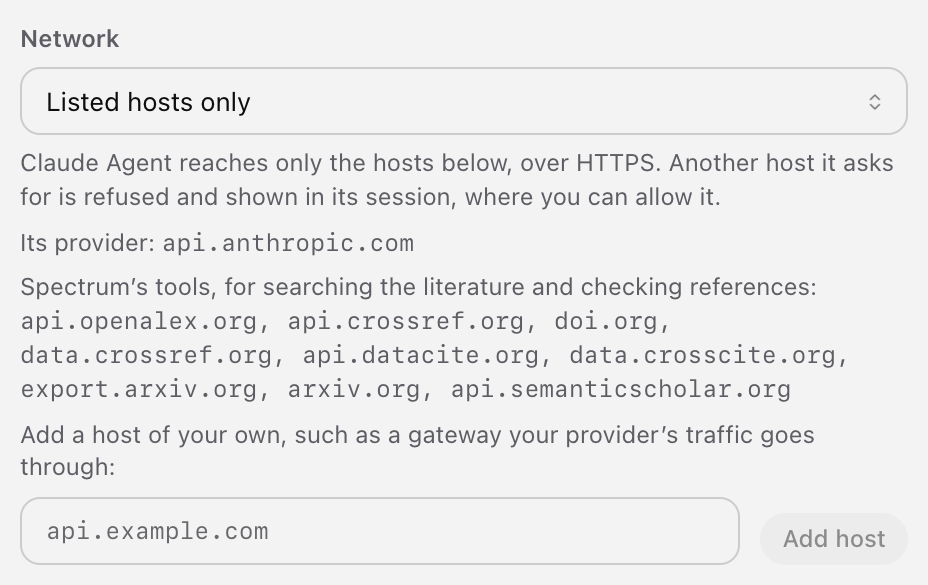
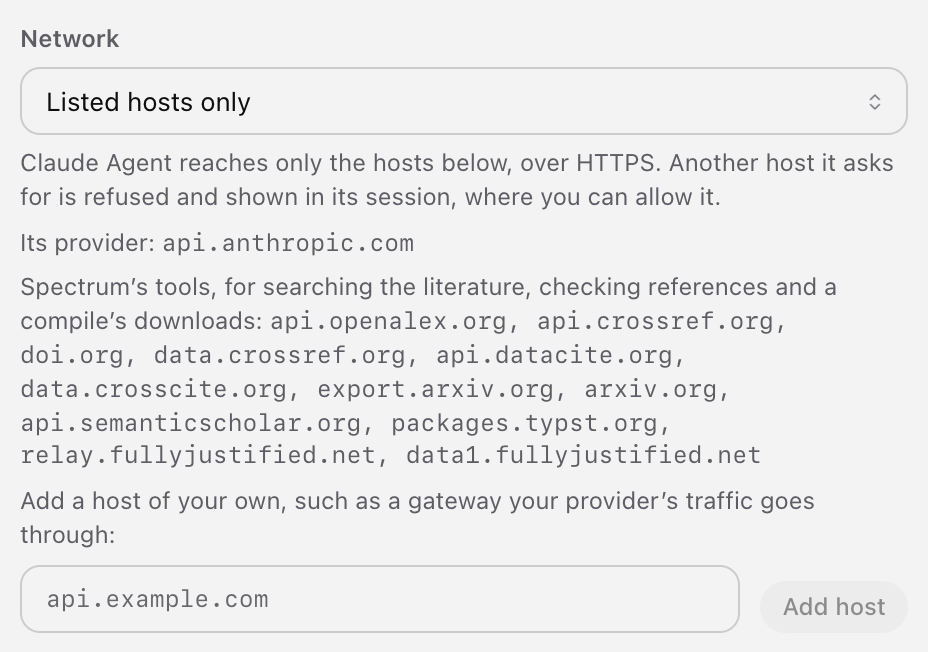
Agents: every list holds what a compile downloads, Typst packages and Tectonic's TeX files
An agent's private home starts with neither, and the built-in Typst and Tectonic both ask the gate for them.

Changed region(s): [[0.0, 0.0308, 0.9688, 0.9846], [0.8438, 0.8923, 0.9688, 0.9538]]

diff --git a/apps/backend/test/agent-network.test.js b/apps/backend/test/agent-network.test.js
@@ -14,7 +14,7 @@ import { fileURLToPath } from 'node:url';
 
 const tmp = realpathSync.native(mkdtempSync(path.join(os.tmpdir(), 'spectrum-agent-network-')));
 Object.assign(process.env, { SPECTRUM_DATA_DIR: path.join(tmp, 'data'), SPECTRUM_PROJECTS_DIR: path.join(tmp, 'projects') });
-const { cleanHost, cleanHosts, helloName, hostAllowed, nameStandIn, openGate, thisComputer, SCHOLARLY_HOSTS } = await import('../src/services/agentNetwork.js');
+const { cleanHost, cleanHosts, helloName, hostAllowed, nameStandIn, openGate, thisComputer, SCHOLARLY_HOSTS, TOOL_HOSTS } = await import('../src/services/agentNetwork.js');
 const { sandboxProfile, spawnAgentProcess } = await import('../src/services/agentSandbox.js');
 const { PROFILES, agentConfigs, agentEntry, allowAgentHost, agentHome, launchOptions, networkOf, profileFor, recordTest, saveAgentConfig } = await import('../src/services/agentProfiles.js');
 const servers = await import('../src/services/mcpServers.js');
@@ -189,7 +189,8 @@ test('each agent has its provider’s hosts; only one whose documentation is sur
   }
   assert.deepEqual(PROFILES.filter((p) => p.network === 'hosts').map((p) => p.id), ['claude']);
   const claude = networkOf(profileFor('claude'));
-  assert.deepEqual({ mode: claude.mode, provider: claude.provider, tools: claude.tools, hosts: claude.hosts }, { mode: 'hosts', provider: ['api.anthropic.com'], tools: SCHOLARLY_HOSTS, hosts: [] });
+  assert.deepEqual({ mode: claude.mode, provider: claude.provider, tools: claude.tools, hosts: claude.hosts }, { mode: 'hosts', provider: ['api.anthropic.com'], tools: TOOL_HOSTS, hosts: [] });
+  assert.ok(SCHOLARLY_HOSTS.every((host) => TOOL_HOSTS.includes(host)));
   assert.equal(claude.enforced, process.platform === 'darwin');
   // the two the owner's tests left as they are: any host, with the list ready
   for (const id of ['deepseek', 'codex']) assert.equal(networkOf(profileFor(id)).mode, 'any', id);
@@ -217,7 +218,7 @@ test('an agent’s network setting: saved only where it differs, a list checked,
   options = await launch();
   if (process.platform === 'darwin') {
     assert.equal(options.network, 'hosts');
-    assert.deepEqual(await options.hosts(), [...profileFor('qoder').hosts, ...SCHOLARLY_HOSTS, 'models.example.com']);
+    assert.deepEqual(await options.hosts(), [...profileFor('qoder').hosts, ...TOOL_HOSTS, 'models.example.com']);
     await recordTest('qoder', { ok: true, code: 'ready', program: options.program }, { setup: options.setup });
     // a host allowed from a session: on the list at once, and the Test stands
     assert.equal(await allowAgentHost('qoder', 'Extra.Example.com:443'), 'extra.example.com');
@@ -314,6 +315,27 @@ test('a listed agent that asks the gate for nothing is told once where Any host 
   assert.equal(told.length, 1, JSON.stringify(told));
   assert.match(told[0], /^Qoder is held to its list of hosts and asked for none of them in this task\..*choose Any host for it in Settings › Agents\.$/);
   assert.deepEqual(await quiet({ mode: 'any' }), []);
+});
+
+test('the built-in Typst and Tectonic ask the gate for their downloads, by the hosts every list has', { skip, timeout: 120000 }, async (t) => {
+  const { builtInTypst, builtInTectonic } = await import('../src/services/engineService.js');
+  const root = path.join(tmp, 'engines');
+  await fs.mkdir(path.join(root, 'home', 'tmp'), { recursive: true }); await fs.mkdir(path.join(root, 'work'));
+  await fs.writeFile(path.join(root, 'work', 'a.typ'), '#import "@preview/spectrum-stand-in:0.0.1"\nText\n');
+  await fs.writeFile(path.join(root, 'work', 'a.tex'), '\\documentclass{article}\\begin{document}Text\\end{document}\n');
+  // every host refused, so nothing is downloaded: what each asked for is what a list must hold
+  const asks = async (command, args) => {
+    const refused = new Set();
+    const child = await spawnAgentProcess({ command, args, workspace: path.join(root, 'work'), home: path.join(root, 'home'), runtimePaths: [path.dirname(command)], hosts: () => [], onRefused: (host) => refused.add(host) });
+    child.stdout.resume(); child.stderr.resume();
+    await new Promise((resolve, reject) => { child.on('error', reject); child.on('exit', resolve); });
+    return [...refused];
+  };
+  const [typst, tectonic] = [builtInTypst(), builtInTectonic()];
+  if (!typst && !tectonic) return t.skip('The built-in Typst and Tectonic are not in this checkout.');
+  if (typst) assert.deepEqual(await asks(typst, ['compile', 'a.typ']), ['packages.typst.org']);
+  if (tectonic) assert.deepEqual(await asks(tectonic, ['a.tex']), ['relay.fullyjustified.net']);
+  for (const host of ['packages.typst.org', 'relay.fullyjustified.net']) assert.ok(TOOL_HOSTS.includes(host), host);
 });
 
 // a stdio MCP server by hand, with one tool that asks a host for a page

diff --git a/apps/backend/src/services/agentProfiles.js b/apps/backend/src/services/agentProfiles.js
@@ -8,7 +8,7 @@ import { DATA_DIR } from '../config/constants.js';
 import { writeJsonAtomic } from '../utils/fsUtils.js';
 import { resolveExecutable, isolationAvailable, SYSTEM_READS } from './agentSandbox.js';
 import { safeJoin } from '../utils/pathUtils.js';
-import { SCHOLARLY_HOSTS, cleanHost, cleanHosts } from './agentNetwork.js';
+import { TOOL_HOSTS, cleanHost, cleanHosts } from './agentNetwork.js';
 // each adapter's whole tree, every package pinned with its checksum (npm install --package-lock-only from the version)
 import codexLock from '../data/adapters/codex/package-lock.json' with { type: 'json' };
 import claudeLock from '../data/adapters/claude/package-lock.json' with { type: 'json' };
@@ -100,14 +100,14 @@ export function profileFor(id) {
 const same = (a, b) => JSON.stringify(a ?? null) === JSON.stringify(b ?? null);
 
 /**
- * Where an agent may connect: mode 'hosts' (its provider's hosts, the scholarly sites of Spectrum's tools and the ones
- * the user added) or 'any' (every public HTTPS host), the user's choice or else the profile's; enforced: whether this
+ * Where an agent may connect: mode 'hosts' (its provider's hosts, the sites Spectrum's tools search, check references
+ * against and download a compile's packages from, and the ones the user added) or 'any' (every public HTTPS host), the user's choice or else the profile's; enforced: whether this
  * platform can hold an agent to a list (macOS; the Windows worker opens every public address or none); sure: whether
  * the agent's documentation was sure enough for it to start held to its list.
  */
 export function networkOf(profile, saved = {}) {
   const mode = ['hosts', 'any'].includes(saved.network?.mode) ? saved.network.mode : profile.network || 'any';
-  return { mode, provider: profile.hosts || [], tools: SCHOLARLY_HOSTS, hosts: cleanHosts(saved.network?.hosts), enforced: process.platform === 'darwin', sure: profile.network === 'hosts' };
+  return { mode, provider: profile.hosts || [], tools: TOOL_HOSTS, hosts: cleanHosts(saved.network?.hosts), enforced: process.platform === 'darwin', sure: profile.network === 'hosts' };
 }
 /** Adds host to the ones the user allows the agent, and gives the host as saved. */
 export async function allowAgentHost(id, value) {

diff --git a/apps/frontend/src/app/AgentSettings.tsx b/apps/frontend/src/app/AgentSettings.tsx
@@ -554,7 +554,7 @@ function AgentCard({
                     Its provider: <span className="mono">{a.network.provider.join(', ')}</span>
                   </div>
                   <div className="field-hint">
-                    Spectrum’s tools, for searching the literature and checking references: <span className="mono">{a.network.tools.join(', ')}</span>
+                    Spectrum’s tools, for searching the literature, checking references and a compile’s downloads: <span className="mono">{a.network.tools.join(', ')}</span>
                   </div>
                   <div className="field-hint">{a.network.hosts.length ? 'Added by you:' : 'Add a host of your own, such as a gateway your provider’s traffic goes through:'}</div>
                   <HostList hosts={a.network.hosts} label={`A host ${a.name} may reach`} disabled={!!busy} onChange={(hosts) => act('Saving…', () => configureLocalAgent(a.id, { network: { hosts } }), false)} />

diff --git a/apps/backend/src/services/agentNetwork.js b/apps/backend/src/services/agentNetwork.js
@@ -15,6 +15,11 @@ import { lookup } from 'node:dns/promises';
 
 /** The hosts Spectrum's own tools server reaches from inside an agent's isolation (literature_search, fetch_bibtex, check_references). */
 export const SCHOLARLY_HOSTS = ['api.openalex.org', 'api.crossref.org', 'doi.org', 'data.crossref.org', 'api.datacite.org', 'data.crosscite.org', 'export.arxiv.org', 'arxiv.org', 'api.semanticscholar.org'];
+/**
+ * With those, what its compile downloads on first use, as an agent's private home starts with neither: a Typst
+ * package, and Tectonic's TeX files (the relay hands on to the data host). Both programs honour the proxy variables.
+ */
+export const TOOL_HOSTS = [...SCHOLARLY_HOSTS, 'packages.typst.org', 'relay.fullyjustified.net', 'data1.fullyjustified.net'];
 
 // a name with a dot, or *.name for every host below one; never an address
 const HOST = /^(\*\.)?(?=.{1,253}$)([a-z0-9]([a-z0-9-]{0,61}[a-z0-9])?\.)+[a-z][a-z0-9-]{1,62}$/;
